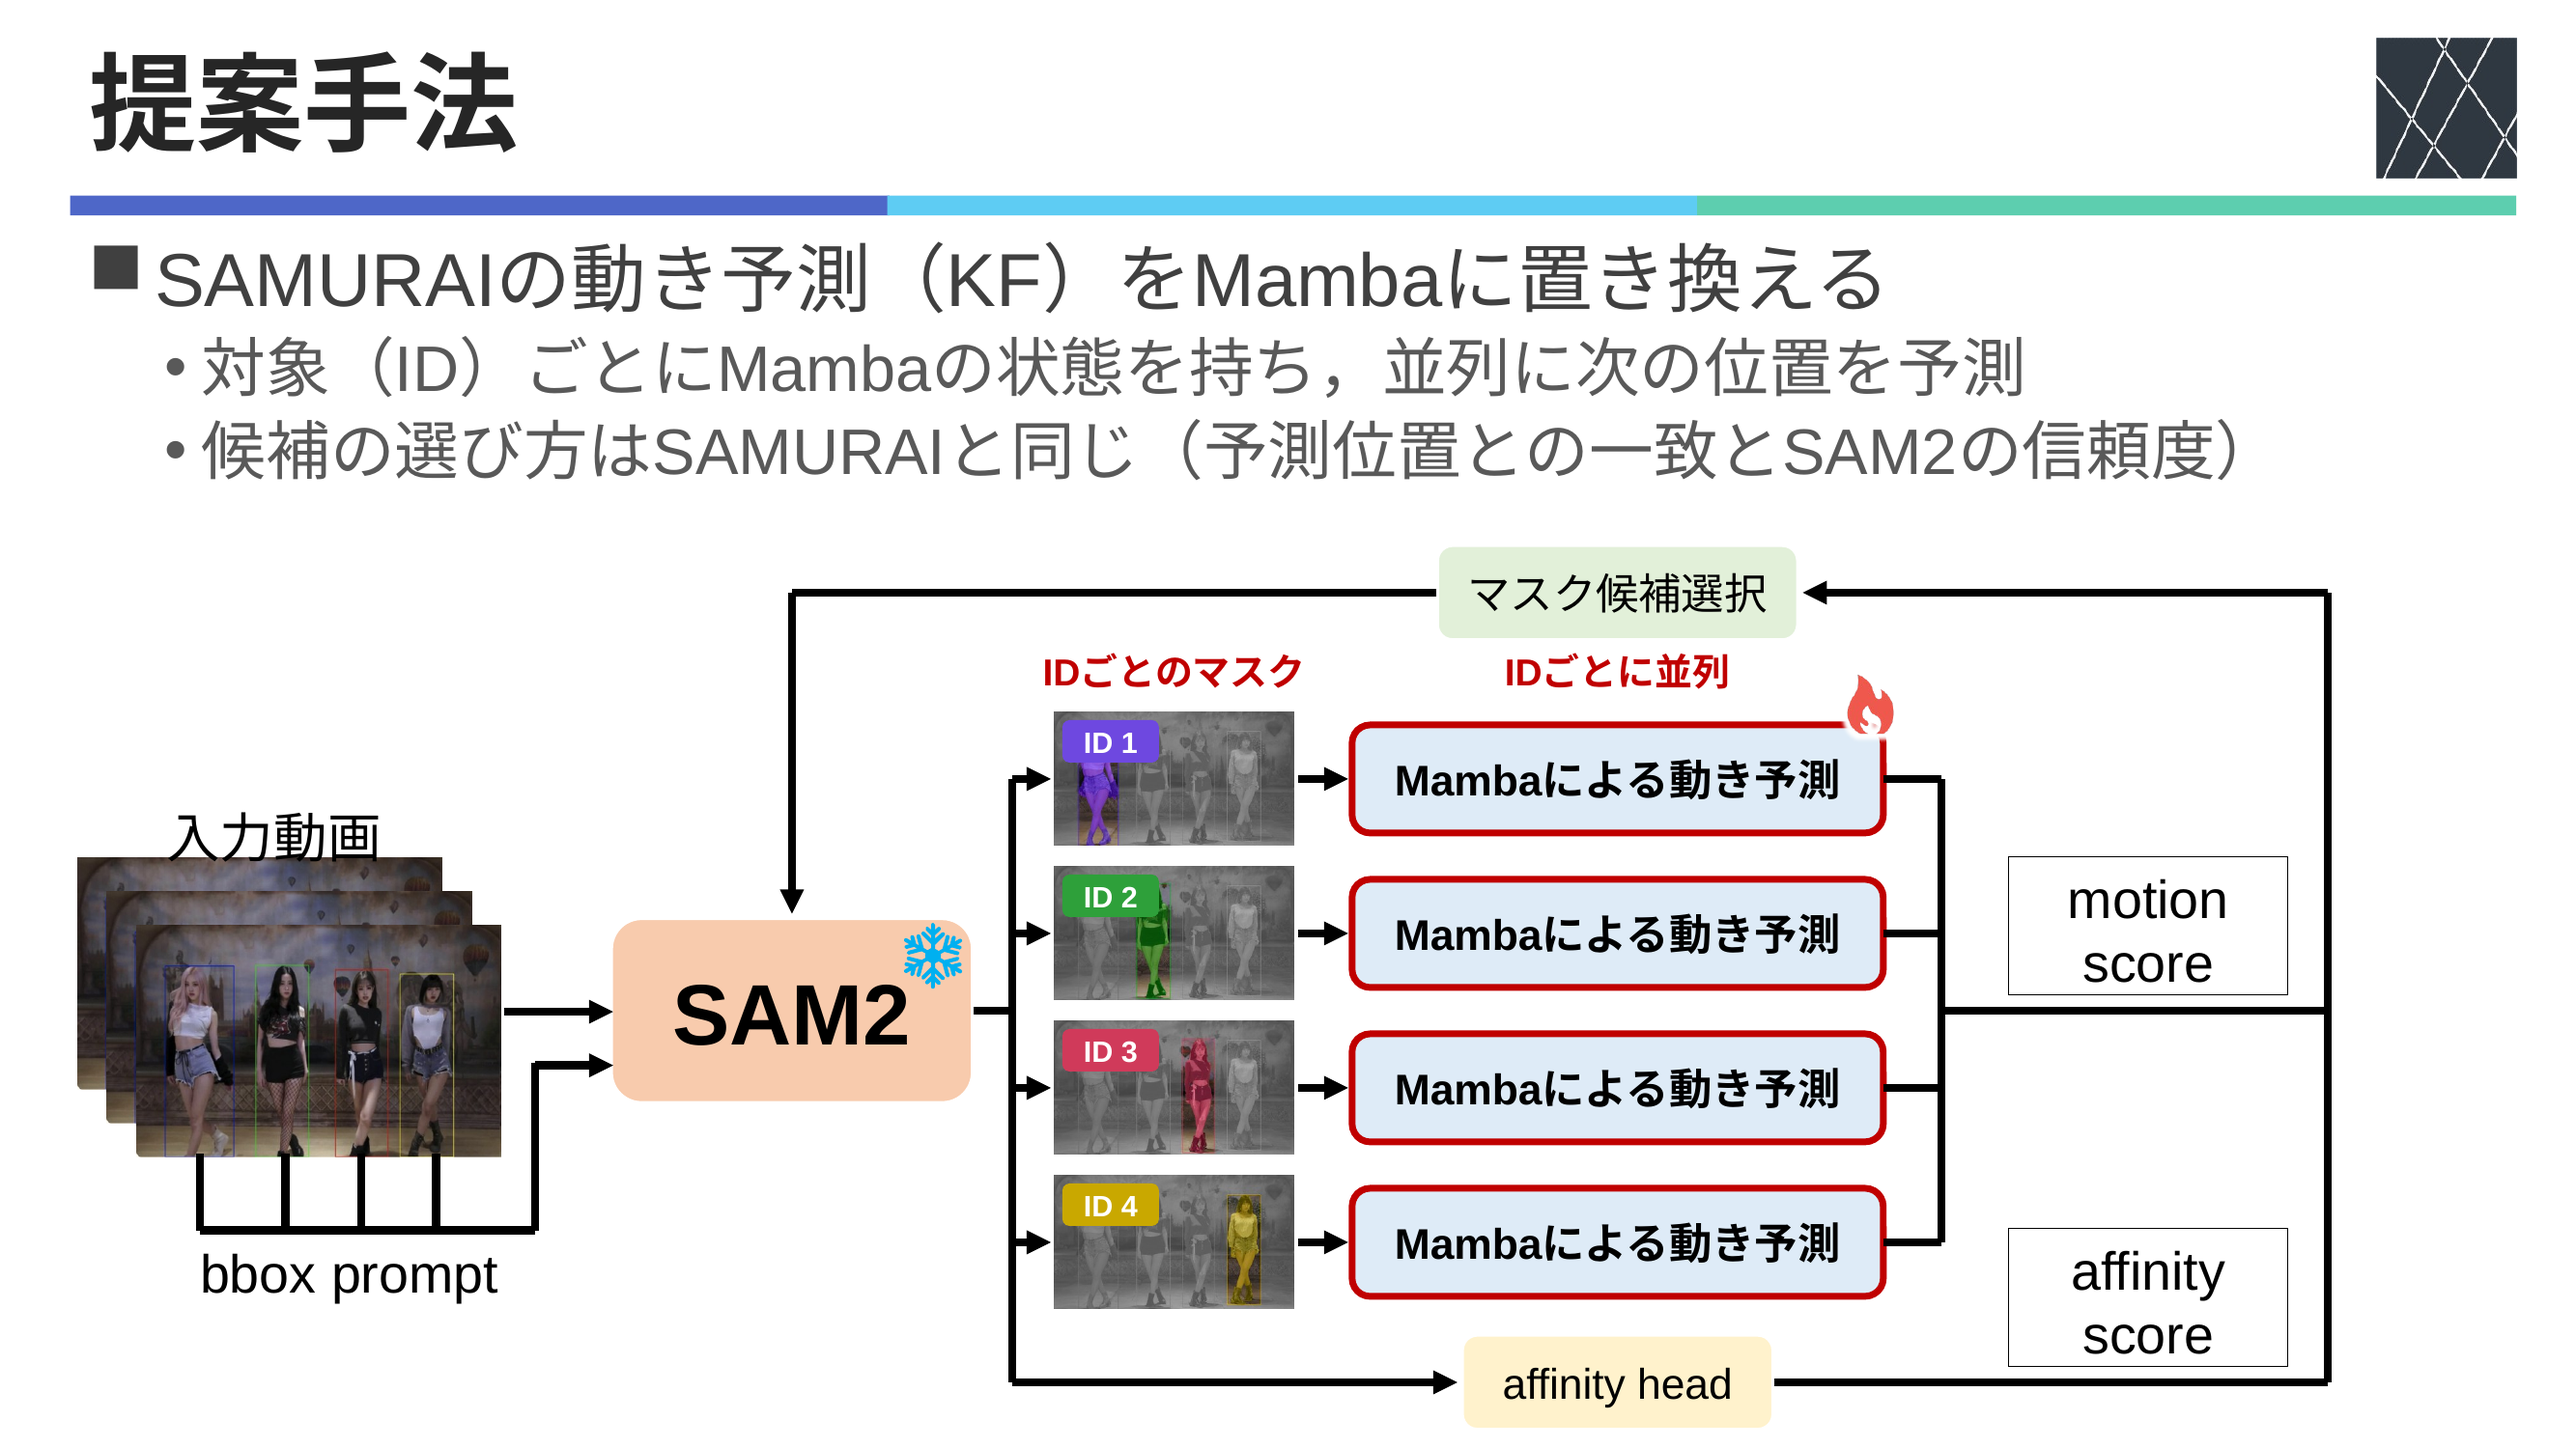
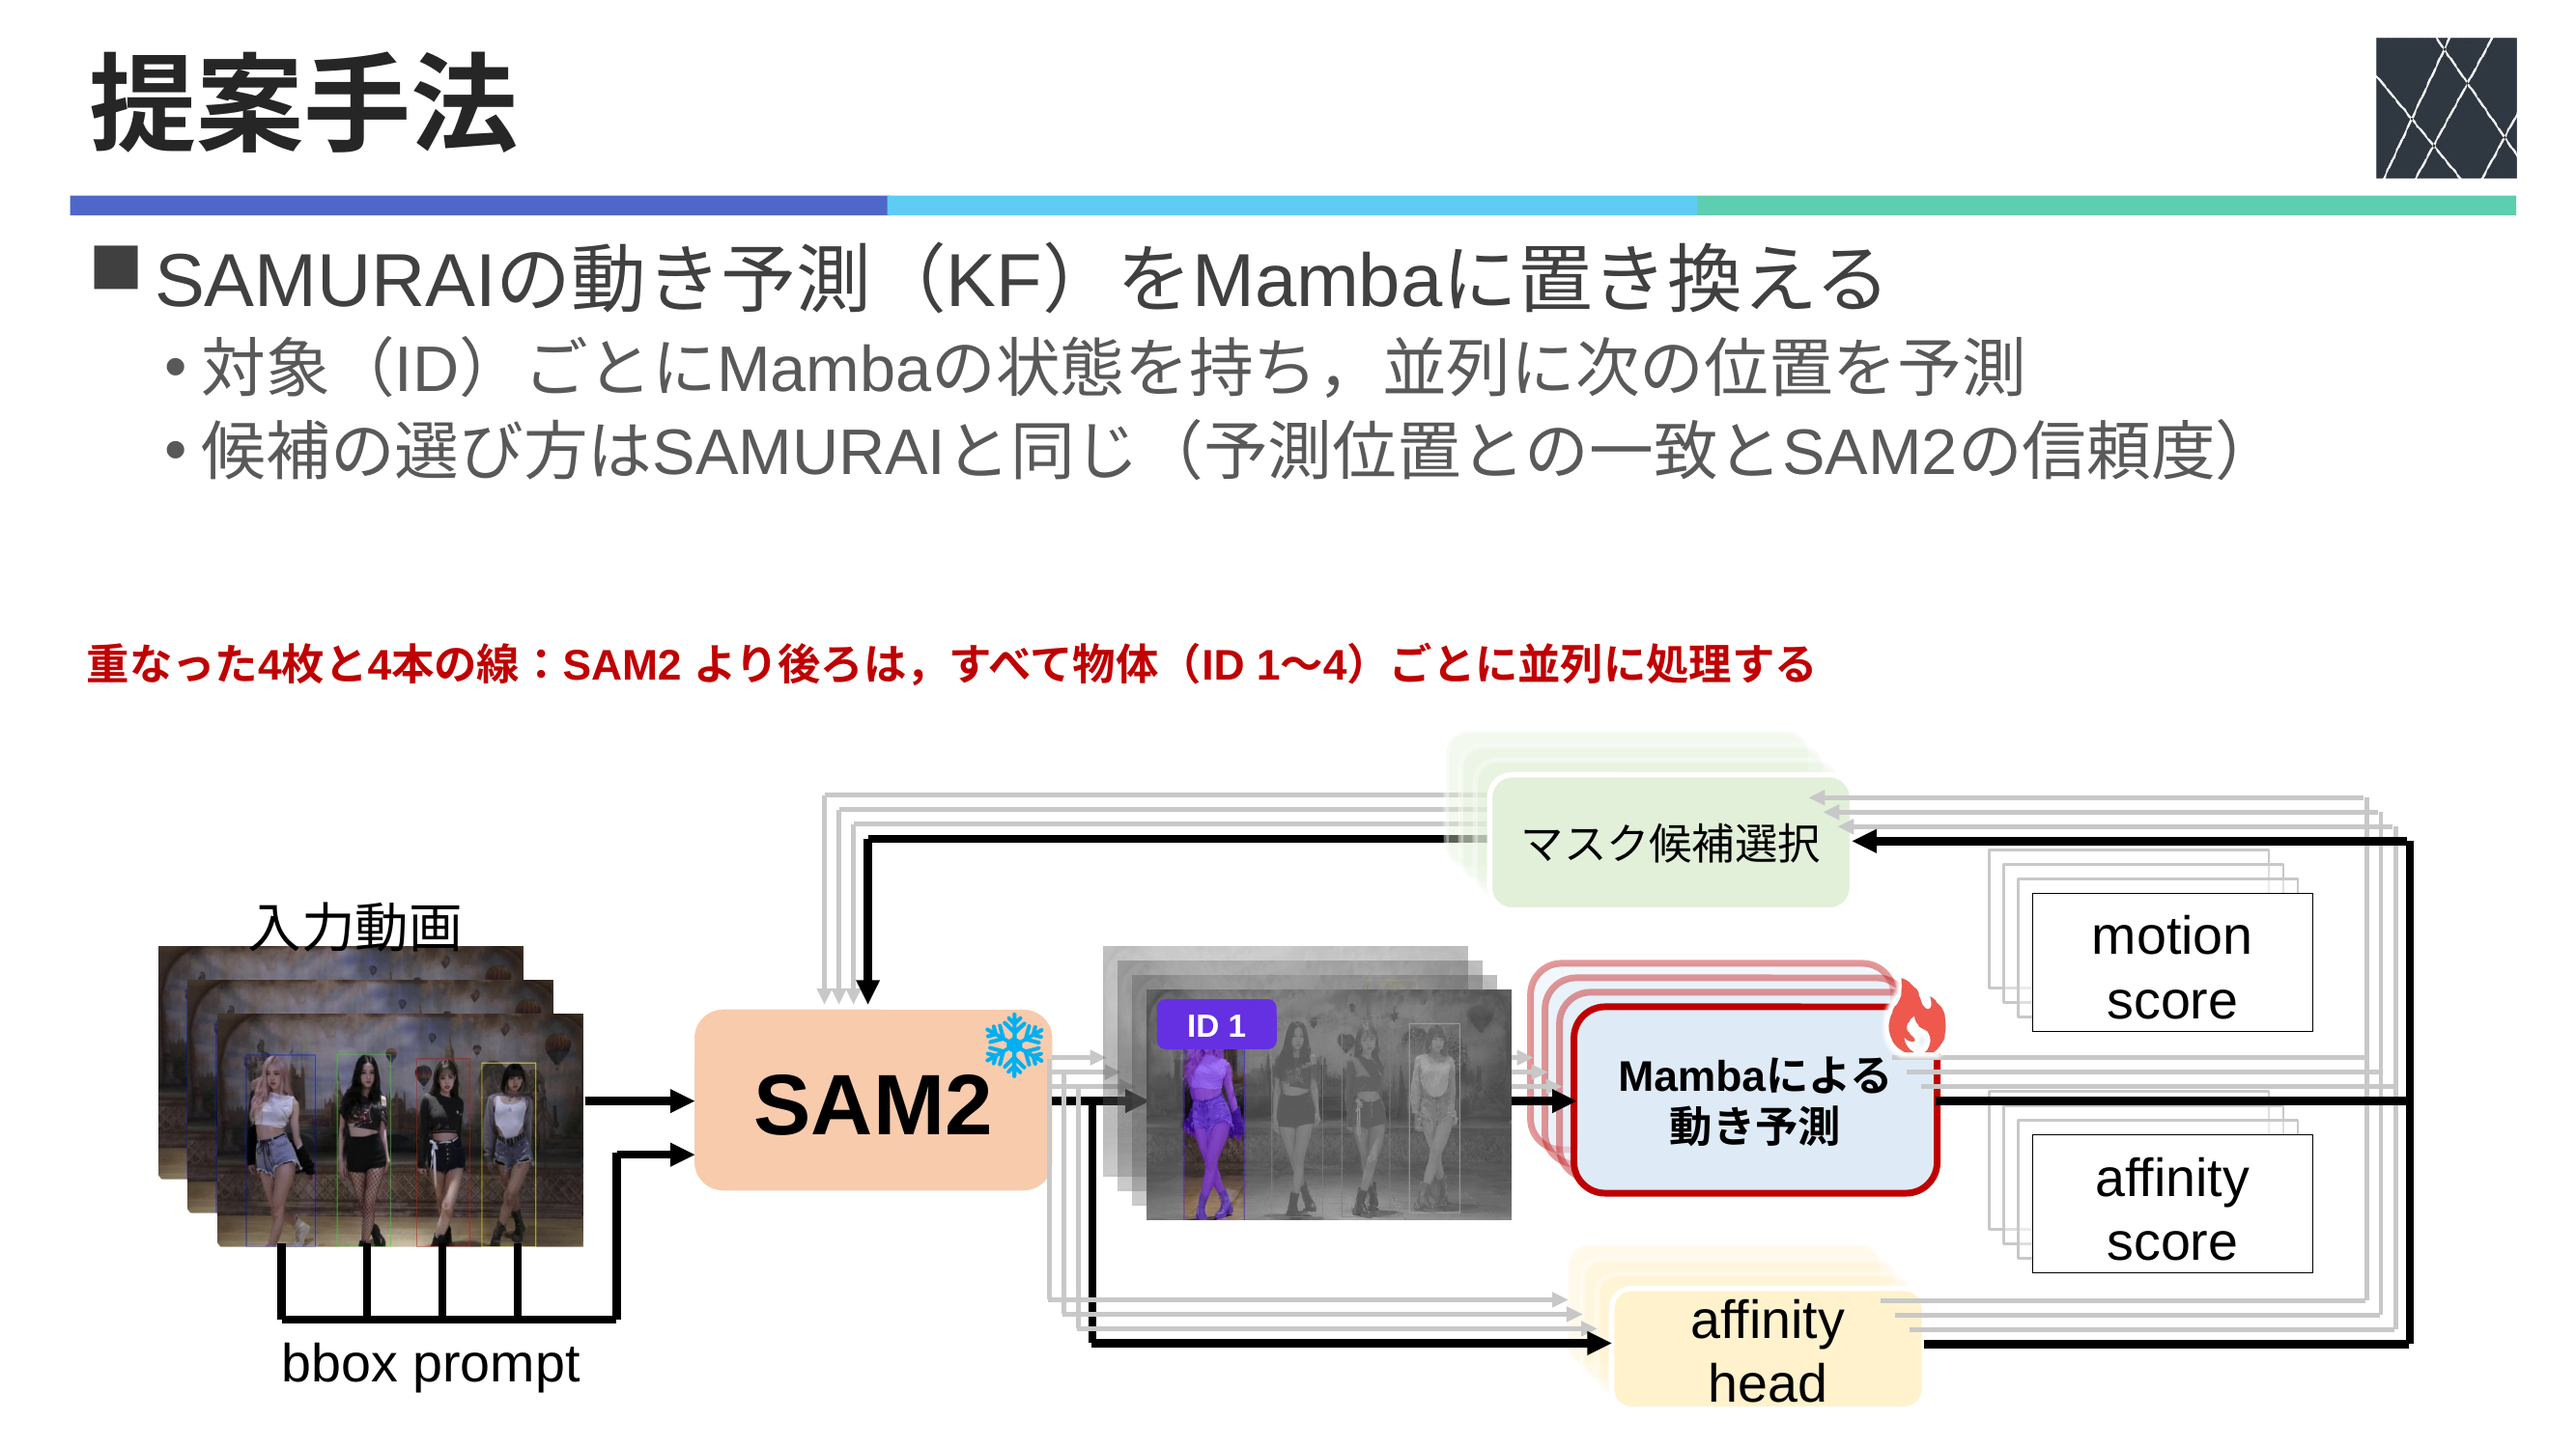
資料: 提案手法1の物体ごとの並列構成を4枚重ねで示す

Changed region(s): [[0.0311, 0.368, 0.9336, 1.0]]

diff --git a/.research/lab/projects/sam2-mamba-motion-tracking/materials/2026-10-12-midterm-slide-restructure.md b/.research/lab/projects/sam2-mamba-motion-tracking/materials/2026-10-12-midterm-slide-restructure.md
@@ -143,6 +143,9 @@ tags: [presentation, midterm, restructure]
 
 - F1（従来のMOT手法）: ID付き・検出結果の画像の枠を太くし（元画像で 12 px → 40 px）、IDの番号を外した。[作り方](figures/2026-10-15-mot-paradigm-timeline/manifest.md)
 - F2: 「動き予測へのMambaの組み込み方」のタイトルを、ユーザーの決定どおり「Mambaによる時系列情報の取り込み方」にした。
+- F3（提案手法）: 非表示に残していた重ねた版の図をもとに、SAM2 より後ろ（マスク・Mambaによる動き予測・motion score・affinity head・affinity score・マスク候補選択）をすべて ID 1〜4 の4枚重ねにし、矢印も4本ずつ描いた（手前の ID 1 は黒、奥の3本は灰色）。SAM2 は重みが共通なので1つの箱のまま、4本の線が出て4本が戻る。図の上に「重なった4枚と4本の線：SAM2 より後ろは，すべて物体（ID 1〜4）ごとに並列に処理する」。上下に並べた版は非表示スライド「（旧）提案手法：IDごとに上下に並べた図」として残した。
+- F3 の図は線が多くごちゃついたため（ユーザーの判断）、構成は変えずに、重ねのずれを 0.13 → 0.075 インチに小さくし、奥の3本の線を細く（1.75 pt）薄い灰色にした。
+- 重ねる向きを、入力動画の重ね方（奥が左上）にそろえて左上にした（ユーザーの指摘）。
 ## 自作図のバックアップ
 
 自作の図（3・4・6・7枚目）は、[抜き出し版のpptx](figures/2026-10-13-midterm-diagrams/manifest.md)にも保存した。

diff --git a/.research/lab/projects/sam2-mamba-motion-tracking/materials/figures/2026-10-13-midterm-diagrams/manifest.md b/.research/lab/projects/sam2-mamba-motion-tracking/materials/figures/2026-10-13-midterm-diagrams/manifest.md
@@ -34,7 +34,7 @@ SOFFICE=/path/to/soffice python export_png.py   # 既定: このフォルダのp
 | `png/05-old-bbox-mask-merge.png` | （旧）合流図 |
 | `png/06-sliding-window-vs-state-carry.png` | Mambaによる時系列情報の取り込み方（sliding window型とstate carry型を左右に並べた図） |
 | `png/07-motion-prediction.png` | Mambaを用いた動き予測（正常な場合の模式図） |
-| `png/08-proposed-method.png` | 提案手法（ID 1〜4 を上下に並べた図。本体で使う） |
+| `png/08-proposed-method.png` | 提案手法（SAM2 より後ろを ID 1〜4 の4枚重ねにし，矢印も4本ずつ描いた図。2026-10-16 先生のFB F3 で上下に並べた版から変更） |
 | `png/09-proposed-method-stacked.png` | （旧）提案手法：IDごとのマスクを重ねた図（差し替え用に残す） |
 
 - PNGはLibreOfficeで描いたもの。この環境にないフォントは置き換わる（テーマの「Noto Sans JP」→「Noto Sans CJK JP」）ため、PowerPointの表示と少しずれることがある。

diff --git a/.research/lab/projects/sam2-mamba-motion-tracking/materials/2026-10-14-midterm-slide-revision-plan.md b/.research/lab/projects/sam2-mamba-motion-tracking/materials/2026-10-14-midterm-slide-revision-plan.md
@@ -61,3 +61,4 @@ tags: [presentation, midterm, revision]
 |---|---|---|---|
 | F1 | 従来のMOT手法 | TBD・TBAとも、一番右の色付きbboxが見にくい。IDはなくてよいので太いbboxにする | 2026-10-15 対応（枠を太くし、IDの番号を外した。白枠の検出結果も同じ太さ） |
 | F2 | Mambaの適用方法 | タイトルが微妙。「Mambaを用いた時系列情報の取り込み方」のような、よりよいものを考える | 2026-10-16 ユーザーが「Mambaによる時系列情報の取り込み方」に決定。本体pptxにも反映 |
+| F3 | 提案手法1 | motion scoreやマスク候補選択も物体ごとにあるので、すべてが並列であることがわかるように4本の線を書く。重ねて書く方式にしたほうがよい | 2026-10-16 図を作成（SAM2 は1つの箱のまま、その後ろをすべて4枚重ね、矢印も4本ずつ。SAM2 から4本出て4本戻る） |

diff --git a/.research/lab/projects/sam2-mamba-motion-tracking/materials/figures/2026-10-15-samurai-per-id/manifest.md b/.research/lab/projects/sam2-mamba-motion-tracking/materials/figures/2026-10-15-samurai-per-id/manifest.md
@@ -13,3 +13,4 @@
 | `mask_id{k}.png` | ID k の枠の中だけ色を残し，ほかを薄い灰色にしたもの（k = 1〜4，左から） |
 
 - `make_per_id.py` で作り直せる（枠の座標は画像に描かれた枠から手で読んだ値）。
+- `panel-stack-draft.jpg`: 2026-10-15 に作って取りやめた「ID ごとの枠（パネル）を重ねた」提案手法の図の画像（4枚目に合わせる前の簡略図がもと）。2026-10-16 の先生のFB F3 の検討用に残した。
